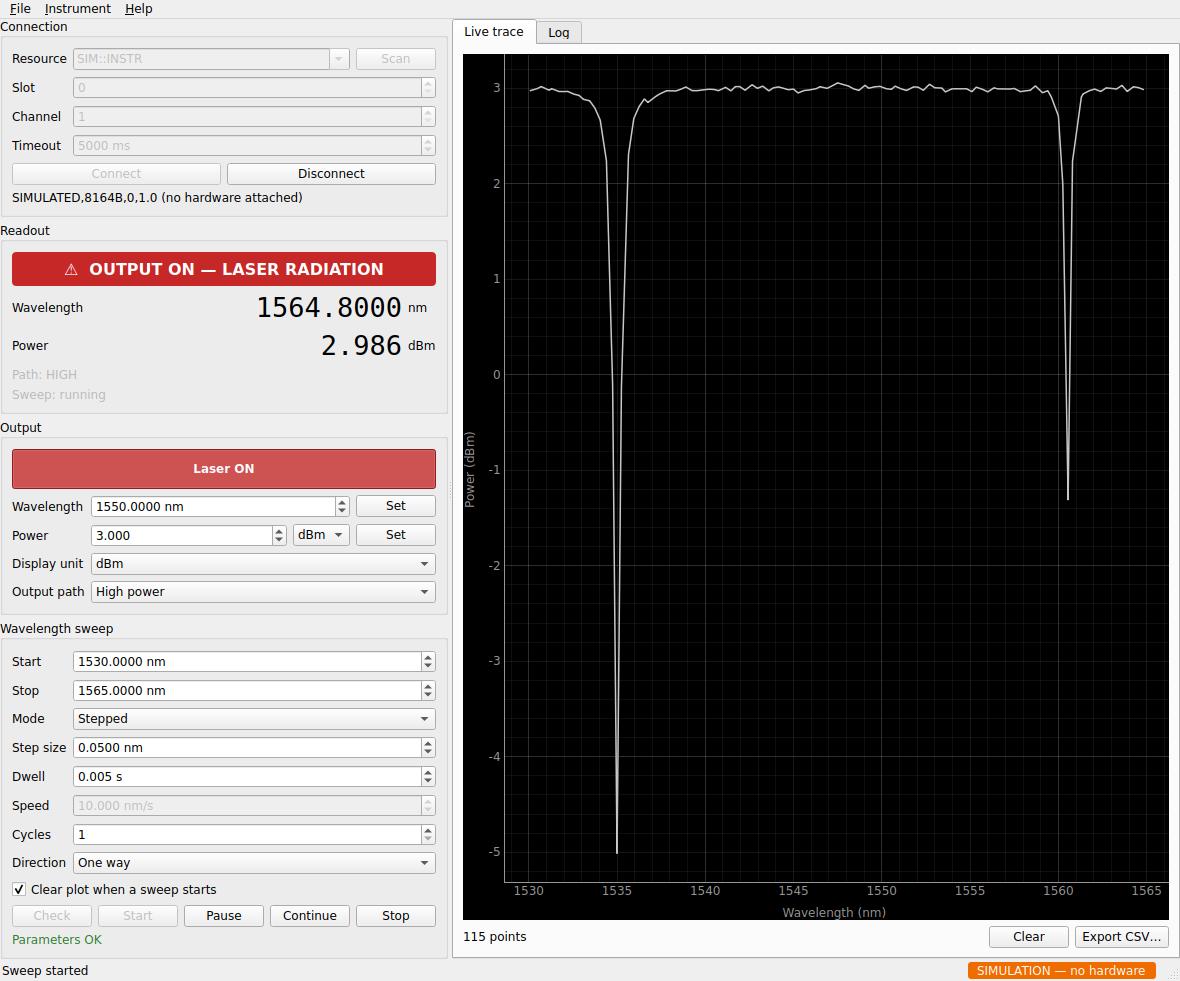
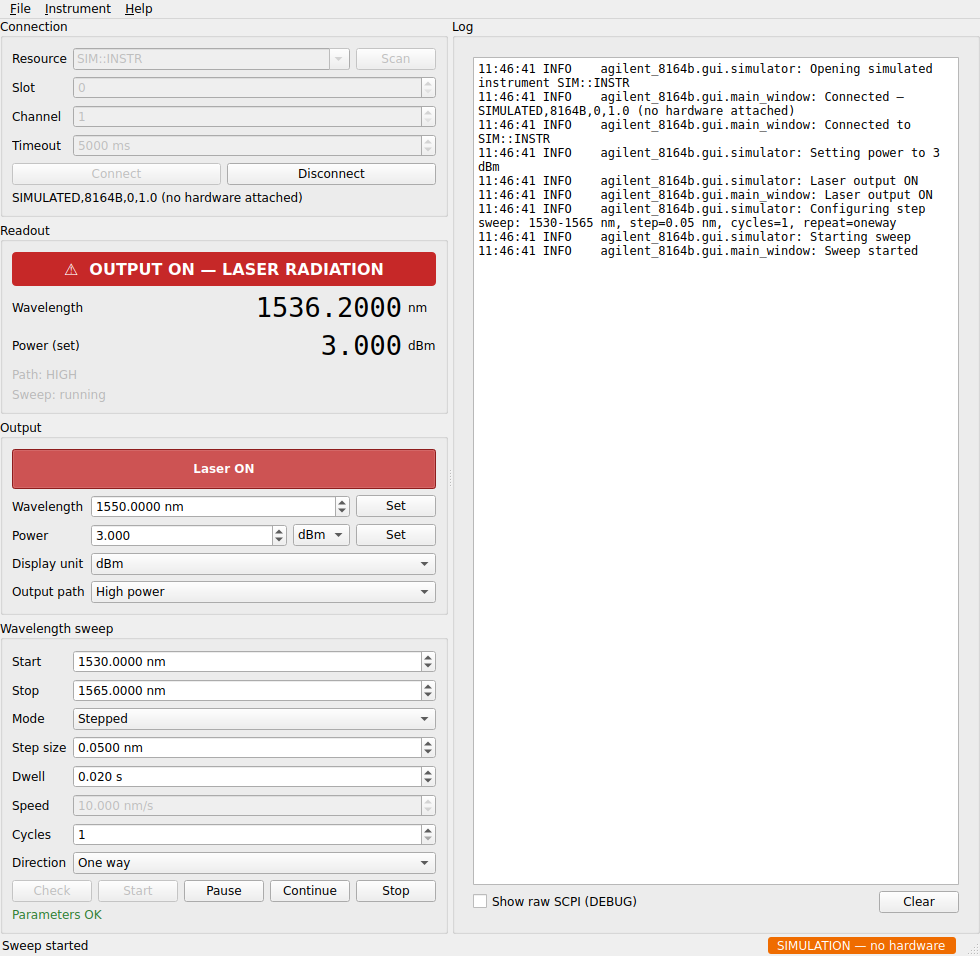
Drop the live trace: the source module has no detector
The plot showed measured power against wavelength, but its y-value came
from get_power(), i.e. a :SOUR:POW? readback of the commanded power. A
tunable laser source module has no photodiode, so on real hardware that
trace is a flat line that cannot respond to the experiment at all. The
simulator hid this by injecting invented Lorentzian dips, which made the
plot look like it was measuring something.

Removes the plot panel, the CSV export, the sample_acquired signal and
the pyqtgraph dependency, and gives the log the full right-hand pane.
The GUI now only surfaces methods of Agilent8164B.

Also renames the power readout to "Power (set)" so it cannot be read as
a measurement, and makes the simulator return the setpoint unchanged
rather than fabricating a spectrum.

Recording a transmission spectrum needs a power meter module and the
:SENSe subsystem, which this driver does not cover; noted in the README
alongside the same caveat for examples/wavelength_scan.py.

Claude-Session: https://claude.ai/code/session_01FngGf66c8cudubAchY2Rx4

diff --git a/src/agilent_8164b/gui/main_window.py b/src/agilent_8164b/gui/main_window.py
@@ -7,16 +7,15 @@ import logging
 from PyQt6.QtCore import QMetaObject, QObject, QSettings, Qt, QThread, pyqtSignal
 from PyQt6.QtGui import QAction, QKeySequence
 from PyQt6.QtWidgets import (
+    QGroupBox,
     QLabel,
     QMainWindow,
     QMessageBox,
     QSplitter,
-    QTabWidget,
     QVBoxLayout,
     QWidget,
 )
 
-from .plot import SweepPlot
 from .widgets import ConnectionPanel, LogPanel, OutputPanel, ReadoutPanel, SweepPanel
 from .worker import LaserWorker
 
@@ -79,7 +78,6 @@ class LaserMainWindow(QMainWindow):
         self.readout_panel = ReadoutPanel()
         self.output_panel = OutputPanel()
         self.sweep_panel = SweepPanel()
-        self.plot_panel = SweepPlot()
         self.log_panel = LogPanel()
 
         left_column = QWidget()
@@ -91,13 +89,13 @@ class LaserMainWindow(QMainWindow):
         left_layout.addWidget(self.sweep_panel)
         left_layout.addStretch(1)
 
-        self.tabs = QTabWidget()
-        self.tabs.addTab(self.plot_panel, "Live trace")
-        self.tabs.addTab(self.log_panel, "Log")
+        log_box = QGroupBox("Log")
+        log_layout = QVBoxLayout(log_box)
+        log_layout.addWidget(self.log_panel)
 
         splitter = QSplitter(Qt.Orientation.Horizontal)
         splitter.addWidget(left_column)
-        splitter.addWidget(self.tabs)
+        splitter.addWidget(log_box)
         splitter.setStretchFactor(0, 0)
         splitter.setStretchFactor(1, 1)
         splitter.setSizes([420, 760])
@@ -115,11 +113,6 @@ class LaserMainWindow(QMainWindow):
 
     def _build_menus(self) -> None:
         file_menu = self.menuBar().addMenu("&File")
-        export_action = QAction("&Export trace as CSV…", self)
-        export_action.setShortcut(QKeySequence.StandardKey.Save)
-        export_action.triggered.connect(self.plot_panel.export_csv)
-        file_menu.addAction(export_action)
-        file_menu.addSeparator()
         quit_action = QAction("&Quit", self)
         quit_action.setShortcut(QKeySequence.StandardKey.Quit)
         quit_action.triggered.connect(self.close)
@@ -170,7 +163,6 @@ class LaserMainWindow(QMainWindow):
         self.output_panel.wavelength_requested.connect(self.worker.set_wavelength_nm)
         self.output_panel.power_requested.connect(self.worker.set_power)
         self.output_panel.power_unit_requested.connect(self.worker.set_power_unit)
-        self.output_panel.power_unit_requested.connect(self.plot_panel.set_power_unit)
         self.output_panel.output_path_requested.connect(self.worker.set_output_path)
 
         self.sweep_panel.start_requested.connect(self._on_sweep_start)
@@ -186,7 +178,6 @@ class LaserMainWindow(QMainWindow):
         self.worker.error.connect(self._on_error)
         self.worker.status.connect(self._on_status)
         self.worker.state_polled.connect(self._on_state)
-        self.worker.sample_acquired.connect(self.plot_panel.add_sample)
         self.worker.sweep_running_changed.connect(self.sweep_panel.set_sweep_running)
         self.worker.sweep_checked.connect(self.sweep_panel.show_check_result)
 
@@ -265,9 +256,6 @@ class LaserMainWindow(QMainWindow):
         self.laser_on_requested.emit(on)
 
     def _on_sweep_start(self, config) -> None:
-        if self.sweep_panel.clear_on_start_check.isChecked():
-            self.plot_panel.clear()
-        self.tabs.setCurrentWidget(self.plot_panel)
         self.sweep_start_requested.emit(config)
 
     def _on_sweep_check(self, config) -> None:

diff --git a/src/agilent_8164b/gui/simulator.py b/src/agilent_8164b/gui/simulator.py
@@ -3,13 +3,13 @@
 Lets the GUI be developed, demonstrated and tested on a machine with no
 mainframe attached (and no VISA backend installed). It mimics the driver's
 public API closely enough that the worker thread cannot tell the difference,
-including a sweep engine that advances the wavelength in real time and a
-synthetic transmission spectrum so the live plot shows something plausible.
+including a sweep engine that advances the wavelength in real time. It
+invents no measurements: like the real module it only ever reports back what
+it was told to do.
 """
 
 import logging
 import math
-import random
 import time
 
 logger = logging.getLogger(__name__)
@@ -114,23 +114,16 @@ class SimulatedAgilent8164B:
             self._power_setpoint_dbm = 10.0 * math.log10(milliwatts)
 
     def get_power(self) -> float:
-        """Synthetic measured power: setpoint shaped by a fake resonance."""
-        self._advance_sweep()
-        dbm = self._power_setpoint_dbm - self._synthetic_dip_db()
-        dbm += random.gauss(0.0, 0.02)  # a little detector noise
-        if not self._laser_on:
-            dbm = -80.0
-        if self._power_unit == "dBm":
-            return dbm
-        return 10 ** (dbm / 10.0) * 1e-3  # watts
+        """Read back the source power setting.
 
-    def _synthetic_dip_db(self) -> float:
-        """Two Lorentzian notches so the live trace has visible features."""
-        depth_db = 0.0
-        for centre_nm, depth, fwhm_nm in ((1535.0, 8.0, 0.4), (1560.5, 5.0, 0.25)):
-            detuning = 2.0 * (self._wavelength_nm - centre_nm) / fwhm_nm
-            depth_db += depth / (1.0 + detuning**2)
-        return depth_db
+        The real ``:SOUR:POW?`` returns the commanded output power, not a
+        measurement — a tunable laser source module has no detector. So this
+        returns the setpoint unchanged, whatever the wavelength and whether
+        or not the output is enabled.
+        """
+        if self._power_unit == "dBm":
+            return self._power_setpoint_dbm
+        return 10 ** (self._power_setpoint_dbm / 10.0) * 1e-3  # watts
 
     # -- output path ---------------------------------------------------
     def set_output_path(self, path: str) -> None:

diff --git a/tests/test_gui.py b/tests/test_gui.py
@@ -81,12 +81,18 @@ def test_simulator_rejects_inverted_range():
     assert sim.check_sweep_params() != "OK"
 
 
-def test_simulator_reports_dark_when_output_off():
+def test_simulator_power_is_a_setpoint_readback():
+    """There is no detector, so get_power() must not vary with the sweep."""
     sim = SimulatedAgilent8164B()
     sim.set_power(3.0, unit="dBm")
-    assert sim.get_power() < -50.0
     sim.laser_on()
-    assert sim.get_power() == pytest.approx(3.0, abs=1.5)
+    sim.configure_sweep(1530.0, 1565.0, step_nm=0.5, dwell_s=0.001)
+    sim.start_sweep()
+    readings = []
+    for _ in range(5):
+        sim.get_wavelength_nm()
+        readings.append(sim.get_power())
+    assert readings == [3.0] * 5
 
 
 # -- panels (no instrument involved) -----------------------------------
@@ -144,7 +150,7 @@ def test_setting_wavelength_updates_readout(qapp, window):
     assert "1543.21" in window.readout_panel.wavelength_value.text()
 
 
-def test_sweep_collects_points_and_stops(qapp, window):
+def test_sweep_runs_then_returns_to_idle(qapp, window):
     _connect(qapp, window)
     window.output_panel.laser_button.setChecked(True)
     window.sweep_panel.start_spin.setValue(1550.0)
@@ -155,6 +161,10 @@ def test_sweep_collects_points_and_stops(qapp, window):
 
     _spin(qapp, 200)
     assert window.sweep_panel.check_label.text() == "Parameters OK"
+    assert window.worker._inst.is_sweeping()
+    # While running, only the transport controls are live.
+    assert not window.sweep_panel.start_button.isEnabled()
+    assert window.sweep_panel.stop_button.isEnabled()
 
     for _ in range(100):
         _spin(qapp, 50)
@@ -162,9 +172,8 @@ def test_sweep_collects_points_and_stops(qapp, window):
             break
     _spin(qapp, 200)
 
-    assert len(window.plot_panel._powers) > 3
-    assert all(1549.9 <= wl <= 1551.1 for wl in window.plot_panel._wavelengths_nm)
-    # The transport buttons return to the idle arrangement afterwards.
+    wavelength_nm = window.worker._inst.get_wavelength_nm()
+    assert 1549.9 <= wavelength_nm <= 1551.1
     assert window.sweep_panel.start_button.isEnabled()
     assert not window.sweep_panel.stop_button.isEnabled()
 

diff --git a/src/agilent_8164b/gui/widgets.py b/src/agilent_8164b/gui/widgets.py
@@ -165,7 +165,14 @@ class ReadoutPanel(QGroupBox):
         grid.addWidget(QLabel("Wavelength"), 1, 0)
         grid.addWidget(self.wavelength_value, 1, 1)
         grid.addWidget(QLabel("nm"), 1, 2)
-        grid.addWidget(QLabel("Power"), 2, 0)
+        # ":SOUR:POW?" reads back the commanded power, not a measurement —
+        # the source module has no detector — so the label says so.
+        power_caption = QLabel("Power (set)")
+        power_caption.setToolTip(
+            "Read back from the source, i.e. the power the module has been "
+            "told to emit. It is not a measurement."
+        )
+        grid.addWidget(power_caption, 2, 0)
         grid.addWidget(self.power_value, 2, 1)
         self.power_unit_label = QLabel("dBm")
         grid.addWidget(self.power_unit_label, 2, 2)
@@ -358,9 +365,6 @@ class SweepPanel(QGroupBox):
         self.repeat_combo = QComboBox()
         self.repeat_combo.addItems(["One way", "Two way"])
 
-        self.clear_on_start_check = QCheckBox("Clear plot when a sweep starts")
-        self.clear_on_start_check.setChecked(True)
-
         self.check_button = QPushButton("Check")
         self.check_button.setToolTip("Validate the parameters without starting")
         self.start_button = QPushButton("Start")
@@ -388,7 +392,6 @@ class SweepPanel(QGroupBox):
 
         layout = QVBoxLayout(self)
         layout.addLayout(form)
-        layout.addWidget(self.clear_on_start_check)
         layout.addLayout(button_row)
         layout.addWidget(self.check_label)
 

diff --git a/src/agilent_8164b/gui/worker.py b/src/agilent_8164b/gui/worker.py
@@ -51,7 +51,6 @@ class LaserWorker(QObject):
     error = pyqtSignal(str)
     status = pyqtSignal(str)
     state_polled = pyqtSignal(dict)          # see _poll() for the keys
-    sample_acquired = pyqtSignal(float, float)   # wavelength_nm, power
     sweep_running_changed = pyqtSignal(bool)
     sweep_checked = pyqtSignal(str)          # "OK" or a problem description
 
@@ -331,8 +330,6 @@ class LaserWorker(QObject):
             "sweeping": sweeping,
         })
 
-        if sweeping:
-            self.sample_acquired.emit(wavelength_nm, power)
         if sweeping != self._was_sweeping:
             self._was_sweeping = sweeping
             self.sweep_running_changed.emit(sweeping)

diff --git a/README.md b/README.md
@@ -74,23 +74,29 @@ agilent-8164b-gui                       # or: python -m agilent_8164b.gui.app
 
 ![The GUI during a wavelength sweep](docs/gui_screenshot.png)
 
-The window is split into a control column and a results pane:
+The GUI is a front end to `Agilent8164B` and nothing more: every control maps
+onto a method of that class, and everything it displays is read back from the
+laser source module. It measures nothing, because the module has no detector.
 
 - **Connection** — pick a VISA resource (`Scan` lists what the backend can see),
   set the slot, channel and timeout, then connect. The `*IDN?` response is shown
   underneath, and everything else stays disabled until a session is open.
-- **Readout** — large wavelength and power values polled straight from the
-  instrument, plus the output path and sweep state. A red banner appears
-  whenever the output is emitting.
+- **Readout** — wavelength (`:WAV?`) and sweep state polled a few times a second,
+  plus the output path. A red banner appears whenever the output is emitting.
+  "Power (set)" is a `:SOUR:POW?` readback of the commanded power — it is the
+  setpoint, not a measurement, and does not respond to anything downstream of
+  the output connector.
 - **Output** — laser on/off, wavelength, power (`dBm`/`mW`/`uW`/`nW`), the unit
   the instrument reports in, and the output path for dual-output modules.
 - **Wavelength sweep** — the full `configure_sweep()` parameter set. `Check`
   runs `:WAV:SWE:CHEC?` and reports the problem in place; `Start` re-checks
   before it will start, so a bad range never reaches the hardware.
-- **Live trace** — measured power against wavelength, updated as the sweep
-  runs, exportable to CSV.
 - **Log** — the driver's own log messages, with a tick box to include the raw
   SCPI traffic.
+
+To record a transmission spectrum you need a power meter module and the
+`:SENSe` subsystem, which this driver does not cover. `examples/wavelength_scan.py`
+has the same limitation: the "power" column it writes is the source setpoint.
 
 All instrument I/O runs on a worker thread, so the window never freezes while
 the mainframe is answering. The output is switched off when you disconnect or
@@ -100,8 +106,9 @@ laser asks for confirmation (switch that off under *Instrument*).
 ### Trying it without hardware
 
 `--simulate` swaps the driver for a simulated instrument that sweeps in real
-time and produces a synthetic spectrum, so you can explore the interface with
-no mainframe or VISA backend installed:
+time, so you can explore the interface with no mainframe or VISA backend
+installed. It fabricates no readings — it reports back only what it was told,
+exactly as the real module does:
 
 ```bash
 agilent-8164b-gui --simulate
@@ -123,9 +130,10 @@ and output path), then run:
 python examples/wavelength_scan.py
 ```
 
-The script starts a sweep, polls wavelength and measured power while it
-runs, logs each sample, and (unless disabled) writes the results to a
-CSV file.
+The script starts a sweep, polls the wavelength while it runs, logs each
+sample, and (unless disabled) writes the results to a CSV file. Note that its
+power column is the source setpoint read back with `get_power()`, not a
+measurement — see the note under [GUI](#gui).
 
 ## Logging
 
@@ -151,7 +159,6 @@ src/agilent_8164b/     # installable package
     app.py             # CLI entry point (agilent-8164b-gui)
     main_window.py     # window, menus, worker thread wiring
     widgets.py         # connection/readout/output/sweep panels
-    plot.py            # live trace and CSV export
     worker.py          # instrument worker (all VISA I/O lives here)
     simulator.py       # software stand-in used by --simulate and the tests
 examples/
